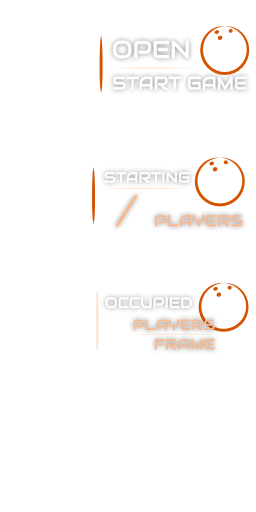
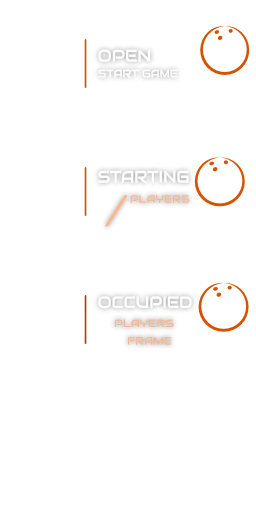
feat: joinGame ui tweaks, responsive sizing

diff --git a/dcl/src/client/ui-screen/ui.lobby.joinGame.tsx b/dcl/src/client/ui-screen/ui.lobby.joinGame.tsx
@@ -1,4 +1,4 @@
-import ReactEcs, { Button, Label, UiEntity} from '@dcl/sdk/react-ecs'
+import ReactEcs, { Button, Label, UiEntity, UiFontType} from '@dcl/sdk/react-ecs'
 import { Color4, Vector3 } from '@dcl/sdk/math'
 import { movePlayerTo } from '~system/RestrictedActions'
 
@@ -18,6 +18,8 @@ import { ClientMessaging } from '../clientMessaging'
 import { clockSync } from 'src/shared/utils/clockSync'
 
 import { buttonUVs, BtnStateUVIndex, getUVsForIconAtlasNumber } from './utils/btn-utils'
+import { Font, UiText } from '@dcl/sdk/ecs'
+import { pixelsScaledRelative, vwAsPixels } from './utils/sizing'
 
 
 // MARK: Vars
@@ -34,7 +36,7 @@ export function HideJoinGameUI() {
 }
 
 const FORCE_SHOW    = true
-const PANEL_HIDDEN  = -300
+const PANEL_HIDDEN  = -420
 const PANEL_VISIBLE = 8
 var panelBottom       : number        = FORCE_SHOW? PANEL_VISIBLE: PANEL_HIDDEN
 
@@ -67,14 +69,17 @@ const laneInfo: BtnInfoUVIndex[] = Array.from(
 	() => BtnInfoUVIndex.OPEN,
 )
 
-function getCountdownIndex(value: number, index: number): number {
+function getCountdownValueAtIndex(value: number, index: number): number {
 	const s = value.toString().slice(index, index + 1)
 	return parseInt(s)	
 }
 
 
 
-function LaneButton(i: number) {
+function LaneButton(
+	i: number, 
+	buttonWidth: number
+) {
 	
 	var lanePhase    = LaneStore.getPhase(i)
 
@@ -113,12 +118,12 @@ function LaneButton(i: number) {
 	if (gameIsStarting) {
 		btnElements.push(
 			<UiEntity
-				key={`ui_joinGame_laneButton_${i}_players`}
+				key={`ui_joinGame_laneButton_${i}_players_current`}
 				uiTransform={{
-					width: 28,
-					height: 28,
+					width: pixelsScaledRelative(20, 256, buttonWidth),
+					height: pixelsScaledRelative(20, 256, buttonWidth),
 					positionType: "absolute",
-					position: { left: 98, top: 63 },
+					position: { left: pixelsScaledRelative(95, 256, buttonWidth), top: pixelsScaledRelative(63, 256, buttonWidth) },
 
 				}}
 				uiBackground={{ 
@@ -130,12 +135,12 @@ function LaneButton(i: number) {
 		)
 		btnElements.push(
 			<UiEntity
-				key={`ui_joinGame_laneButton_${i}_players`}
+				key={`ui_joinGame_laneButton_${i}_players_max`}
 				uiTransform={{
-					width: 28,
-					height: 28,
+					width: pixelsScaledRelative(20, 256, buttonWidth),
+					height: pixelsScaledRelative(20, 256, buttonWidth),
 					positionType: "absolute",
-					position: { left: 126, top: 75 },
+					position: { left: pixelsScaledRelative(118, 256, buttonWidth), top: pixelsScaledRelative(78, 256, buttonWidth) },
 
 				}}
 				uiBackground={{ 
@@ -145,22 +150,22 @@ function LaneButton(i: number) {
 				}}
 			/>
 		)
-		
+
 		// TIME
 		btnElements.push(
 			<UiEntity
 				key={`ui_joinGame_laneButton_${i}_countdown_10s`}
 				uiTransform={{
-					width: 20,
-					height: 20,
+					width: pixelsScaledRelative(20, 256, buttonWidth),
+					height: pixelsScaledRelative(20, 256, buttonWidth),
 					positionType: "absolute",
-					position: { left: 203, top: 51 },
+					position: { left: pixelsScaledRelative(203, 256, buttonWidth), top: pixelsScaledRelative(51, 256, buttonWidth) },
 
 				}}
 				uiBackground={{ 
 					texture    : { src: 'assets/images/ui/icon-atlas.png' },
 					textureMode: 'stretch',
-					uvs        : getUVsForIconAtlasNumber(getCountdownIndex(countdown, 0)),
+					uvs        : getUVsForIconAtlasNumber(getCountdownValueAtIndex(countdown, 0)),
 				}}
 			/>
 		)
@@ -168,16 +173,16 @@ function LaneButton(i: number) {
 			<UiEntity
 				key={`ui_joinGame_laneButton_${i}_countdown_1s`}
 				uiTransform={{
-					width: 20,
-					height: 20,
+					width: pixelsScaledRelative(20, 256, buttonWidth),
+					height: pixelsScaledRelative(20, 256, buttonWidth),
 					positionType: "absolute",
-					position: { left: 218, top: 51 },
+					position: { left: pixelsScaledRelative(218, 256, buttonWidth), top: pixelsScaledRelative(51, 256, buttonWidth) },
 
 				}}
 				uiBackground={{ 
 					texture    : { src: 'assets/images/ui/icon-atlas.png' },
 					textureMode: 'stretch',
-					uvs        : getUVsForIconAtlasNumber(getCountdownIndex(countdown, 1)),
+					uvs        : getUVsForIconAtlasNumber(getCountdownValueAtIndex(countdown, 1)),
 				}}
 			/>
 		)
@@ -189,10 +194,10 @@ function LaneButton(i: number) {
 			<UiEntity
 				key={`ui_joinGame_laneButton_${i}_players`}
 				uiTransform={{
-					width: 28,
-					height: 28,
+					width: pixelsScaledRelative(20, 256, buttonWidth),
+					height: pixelsScaledRelative(20, 256, buttonWidth),
 					positionType: "absolute",
-					position: { left: 104, top: 60 },
+					position: { left: pixelsScaledRelative(92, 256, buttonWidth), top: pixelsScaledRelative(60, 256, buttonWidth) },
 				}}
 				uiBackground={{ 
 					texture    : { src: 'assets/images/ui/icon-atlas.png' },
@@ -205,10 +210,10 @@ function LaneButton(i: number) {
 			<UiEntity
 				key={`ui_joinGame_laneButton_${i}_frames`}
 				uiTransform={{
-					width: 28,
-					height: 28,
+					width: pixelsScaledRelative(20, 256, buttonWidth),
+					height: pixelsScaledRelative(20, 256, buttonWidth),
 					positionType: "absolute",
-					position: { left: 216, top: 72 },
+					position: { left: pixelsScaledRelative(174, 256, buttonWidth), top: pixelsScaledRelative(72, 256, buttonWidth) },
 				}}
 				uiBackground={{ 
 					texture    : { src: 'assets/images/ui/icon-atlas.png' },
@@ -224,8 +229,8 @@ function LaneButton(i: number) {
 		<UiEntity
 			key={`ui_joinGame_laneButton_${i}`}
 			uiTransform={{
-				width         : '256',
-				height        : '128',
+				width         : buttonWidth,
+				height        : buttonWidth / 2,
 				alignContent  : 'flex-start',
 				alignItems    : "center",
 				flexDirection : 'row',
@@ -254,16 +259,16 @@ function LaneButton(i: number) {
 			}}}
 
 			uiBackground={{ 
-				texture    : { src: laneInfoUVIndex == BtnInfoUVIndex.OCCUPIED ? 'assets/images/ui/btn-primary-atlas-b.png' : 'assets/images/ui/btn-secondary-atlas-b.png' }, 
+				texture    : { src: laneInfoUVIndex == BtnInfoUVIndex.OPEN ? 'assets/images/ui/btn-primary-atlas-b.png' : 'assets/images/ui/btn-secondary-atlas-b.png' }, 
 				textureMode: 'stretch',
 				uvs        : buttonUVs[buttonStates[i]],
 			}}
 		>
 			<UiEntity uiTransform={{ 
-				width       : 64, 
-				height      : 64,
+				width       : pixelsScaledRelative(58, 256, buttonWidth), 
+				height      : pixelsScaledRelative(58, 256, buttonWidth),
 				positionType: "absolute",
-				position    : { left: 16 },
+				position    : { left: pixelsScaledRelative(16, 256, buttonWidth) },
 				}}
 				uiBackground={{ 
 					texture    : { src: 'assets/images/ui/icon-atlas.png' },
@@ -287,10 +292,14 @@ function LaneButton(i: number) {
 	)
 }
 
-function GetLaneButtons(start: number, end: number) {
+function GetLaneButtons(
+	start      : number, 
+	end        : number, 
+	buttonWidth: number
+) {
 	const buttons: ReactEcs.JSX.Element[] = []
 	for (let i = start; i <= end; i++) {
-		buttons.push(LaneButton(i))
+		buttons.push(LaneButton(i, buttonWidth))
 	}
 	return buttons
 }
@@ -299,15 +308,24 @@ const breakAfter = Math.ceil(GameSettings.MAX_LANES / 2) -1
 
 
 export function JoinGameUI() {
-	const rowStyle = {
-		width          : 820 as const,
-		height         : 128 as const,
+	
+	const mainWidth   = vwAsPixels(75, 600, 1024)
+	const padding     = { left: 32, right: 32, top: 32, bottom: 16 }
+
+	const mainWidthMinusPadding = mainWidth - padding.left - padding.right
+	const buttonWidth = mainWidthMinusPadding * 0.25
+	const rowHeight   = buttonWidth / 2
+
+	const rowStyle    = {
+		width          : mainWidth * 0.75,
+		height         : rowHeight,
 		flexDirection  : 'row' as const,
 		alignContent   : 'center' as const,
 		alignItems     : 'center' as const,
 		justifyContent : 'space-between' as const,
-		padding        : { left: 16, right: 16 },
+		padding        : padding,
 	}
+
 	return (
 		<UiEntity
 			key="ui_debug_root"
@@ -322,30 +340,61 @@ export function JoinGameUI() {
 
 			<UiEntity
 				uiTransform={{
-					width: rowStyle.width,
-					positionType: 'absolute',
-					position: { bottom: panelBottom },
-					flexDirection: 'column',
-					borderRadius  : 8,
-					borderWidth   : 3,
-					borderColor   : Color4.fromHexString("#CB4F00dd"),
+					width        : mainWidth,
+					height       : buttonWidth + padding.top + padding.bottom,
+					positionType : 'absolute',
+					position     : { bottom: panelBottom },
+					flexDirection: 'row',
+					justifyContent: 'center',
+
+					padding      : { left  : rowStyle.padding.left, right: rowStyle.padding.right, top: rowStyle.padding.top, bottom: rowStyle.padding.bottom },
 				}}
-				uiBackground={{ color: Color4.fromHexString("#BE4B00cc") }}
-				>
+				uiBackground={{ 
+					texture: { src: 'assets/images/ui/bg-popup.png' },
+					textureMode: 'nine-slices',
+					textureSlices: { top: 0.25, bottom: 0.25, left: 0.25, right: 0.25 },
+				}}
+			>
 				<UiEntity
-					uiTransform={{...rowStyle}}
-				>
-					{GetLaneButtons(0, breakAfter)}
-
-				</UiEntity>
-				<UiEntity
-					uiTransform={{...rowStyle,
-						positionType: 'relative',
-						position: { top: -10 },
+					uiTransform={{
+						width      : mainWidthMinusPadding * 0.25,
+						height     : mainWidthMinusPadding * 0.25,
+						//borderColor: Color4.Red(),
+						//borderWidth: 1,
+						flexGrow   : 0,
+						flexShrink : 0
 					}}
-				>
-					{GetLaneButtons(breakAfter + 1, GameSettings.MAX_LANES - 1)}
+					uiBackground={{
+						texture    : { src: 'assets/images/ui/info-welcome.png' },
+						textureMode: 'stretch'						
+					}}
+				/>
 
+				<UiEntity uiTransform={{
+					width         : mainWidthMinusPadding * 0.75,
+					height        : mainWidthMinusPadding * 0.25,
+					flexDirection : 'column',
+					alignItems    : 'center',
+					justifyContent: 'center',
+					//borderColor   : Color4.Red(),
+					//borderWidth   : 1,
+				}}>
+					<UiEntity
+						uiTransform={{
+							...rowStyle
+						}}
+					>
+						{GetLaneButtons(0, breakAfter, buttonWidth)}
+					</UiEntity>
+					<UiEntity
+						uiTransform={{
+							...rowStyle,
+							positionType: 'relative',
+							position: { top: -20 },
+						}}
+					>
+						{GetLaneButtons(breakAfter + 1, GameSettings.MAX_LANES - 1, buttonWidth)}
+					</UiEntity>
 				</UiEntity>
 			</UiEntity>
 		</UiEntity>

diff --git a/dcl/src/client/ui-screen/utils/sizing.ts b/dcl/src/client/ui-screen/utils/sizing.ts
@@ -1,0 +1,31 @@
+import { engine, PBUiCanvasInformation, UiCanvasInformation } from "@dcl/sdk/ecs"
+
+
+function getCanvasInfo(): PBUiCanvasInformation {
+	const canvasInfo = UiCanvasInformation.getOrNull(engine.RootEntity)
+	if (!canvasInfo) {
+		throw new Error("Canvas information not found")
+	}
+	return canvasInfo
+}
+
+export function vhAsPixels(vh: number, min: number = 0, max: number = 99999): number {
+	const height = getCanvasInfo().height
+	const value = Math.max(min, Math.min(max, (vh / 100) * height))
+	return value
+}
+
+export function vwAsPixels(vw: number, min: number = 0, max: number = 99999): number {
+	const width = getCanvasInfo().width
+	const value = Math.max(min, Math.min(max, (vw / 100) * width))
+	return value
+}
+
+
+export function pixelsScaledRelative(
+	value      : number,
+	normalSize : number,
+	currentSize: number
+): number {
+	return value * (currentSize / normalSize)
+}